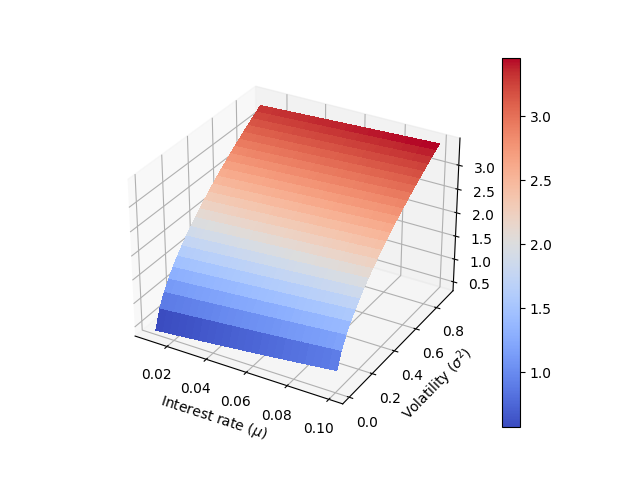
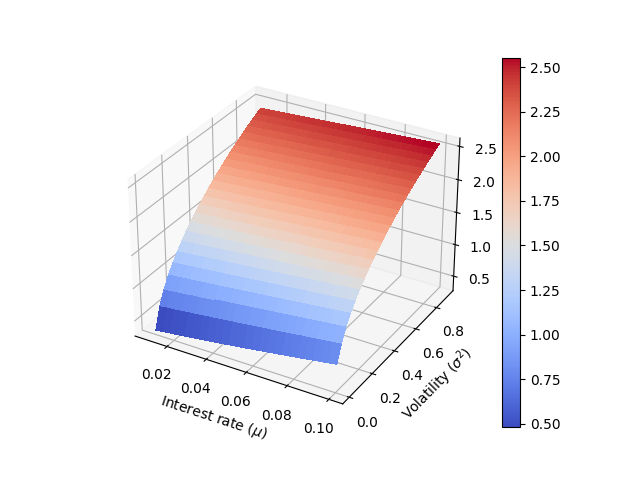
++

diff --git a/heston-improve.py b/heston-improve.py
@@ -5,42 +5,63 @@ from matplotlib import cm
 
 
 # Function to perform Monte Carlo simulation for option pricing
-def monte_carlo_simulation(s0, K, drift, vol, simulations):
-    random_vector = np.random.normal(0, 1, size=(simulations, 3))
-    s_paths = s0 * np.exp((drift - vol / 2) * 1 / 3 + (vol * 1 / 3) ** 0.5 * random_vector.cumsum(axis=1))
+def monte_carlo_simulation(s0, K, drift, vol, T, simulations):
+    random_matrix = np.random.normal(0, 1, size=(simulations, int(T * 3)))  # Utilisez un multiple de T pour le nombre de colonnes
+    s_paths = np.zeros((simulations, int(T) + 1))
+    s_paths[:, 0] = s0
+
+    for i in range(1, int(T) + 1):
+        s_paths[:, i] = s_paths[:, i - 1] * np.exp((drift - vol**2 / 2) * 1 / T + vol * np.sqrt(1 / T) * random_matrix[:, i - 1])
+
     P = np.mean(s_paths, axis=1)
     sample_payoff = np.maximum(P - K, 0)
-    return np.mean(sample_payoff) * np.exp(-drift)
+    return np.mean(sample_payoff) * np.exp(-drift * T)
+
 
 
 # Function to calculate option prices for specific mu and sigma2 values
-def option_price(mu, sigma2, s0, K, simulations):
+def option_price(mu, sigma2, s0, K, T, simulations):
     drift = mu
     vol = np.sqrt(sigma2)
-    return monte_carlo_simulation(s0, K, drift, vol, simulations)
+    return monte_carlo_simulation(s0, K, drift, vol, T, simulations)
 
 
 # Function to calculate Vega (sensitivity to volatility) for specific mu and sigma2 values
-def vega(mu, sigma2, s0, K, simulations, h=0.01):
+def vega(mu, sigma2, s0, K, T, simulations, h=0.01):
     vega_values = np.zeros((len(mu), len(sigma2)))
     for i in range(len(mu)):
         for j in range(len(sigma2)):
-            option_price_at_sigma2 = option_price(mu[i], sigma2[j], s0, K, simulations)
-            option_price_at_sigma2_plus_h = option_price(mu[i], sigma2[j] + np.sqrt(h), s0, K, simulations)
+            option_price_at_sigma2 = option_price(mu[i], sigma2[j], s0, K, T, simulations)
+            option_price_at_sigma2_plus_h = option_price(mu[i], sigma2[j] + np.sqrt(h), s0, K, T, simulations)
             vega_values[i, j] = (option_price_at_sigma2_plus_h - option_price_at_sigma2) / h
     return vega_values
 
 
 # Function to calculate Delta (sensitivity to asset price) for specific mu and sigma2 values
-def delta(mu, sigma2, s0, K, simulations, h=0.01):
+def delta(mu, sigma2, s0, K, T, simulations, h=0.01):
     delta_values = np.zeros((len(mu), len(sigma2)))
     for i in range(len(mu)):
         for j in range(len(sigma2)):
-            option_price_at_s0 = option_price(mu[i], sigma2[j], s0, K, simulations)
-            option_price_at_s0_plus_h = option_price(mu[i], sigma2[j], s0 + h, K, simulations)
+            option_price_at_s0 = option_price(mu[i], sigma2[j], s0, K, T, simulations)
+            option_price_at_s0_plus_h = option_price(mu[i], sigma2[j], s0 + h, K, T, simulations)
             delta_values[i, j] = (option_price_at_s0_plus_h - option_price_at_s0) / h
     return delta_values
 
+
+# Function to calculate Vega (sensitivity to volatility) for specific mu and sigma2 values
+def vega2(mu, sigma2, s0, K, T, simulations, h=0.01):
+    option_price_at_sigma2 = option_price(mu, sigma2, s0, K, T, simulations)
+    option_price_at_sigma2_plus_h = option_price(mu, sigma2 + np.sqrt(h), s0, K, T, simulations)
+    vega_values = (option_price_at_sigma2_plus_h - option_price_at_sigma2) / h
+    return vega_values
+
+
+# Function to calculate Delta (sensitivity to asset price) for specific mu and sigma2 values
+def delta2(mu, sigma2, s0, K, T, simulations, h=0.01):
+    option_price_at_s0 = option_price(mu, sigma2, s0, K, T, simulations)
+    option_price_at_s0_plus_h = option_price(mu, sigma2, s0 + h, K, T, simulations)
+    delta_values = (option_price_at_s0_plus_h - option_price_at_s0) / h
+    return delta_values
 
 
 # Define ranges for drift (mu) and volatility squared (sigma2)
@@ -51,12 +72,13 @@ sigma2_v = np.linspace(0.01, 0.9, 100)  # Increase the number of points for smoo
 simulations = 5000  # Increase the number of simulations for smoother results
 s0 = 10
 K = 10
+T = 1
 
 # Calculate option prices for each combination of mu and sigma2
 result = np.zeros((len(mu_v), len(sigma2_v)))
 for i, mu in enumerate(mu_v):
     for j, sigma2 in enumerate(sigma2_v):
-        result[i, j] = option_price(mu, sigma2, s0, K, simulations)
+        result[i, j] = option_price(mu, sigma2, s0, K, T, simulations)
 
 # Prepare data for 3D plotting
 MU, SIGMA2 = np.meshgrid(mu_v, sigma2_v)
@@ -71,27 +93,63 @@ ax.set_zlabel('Price of option')
 plt.title("Option Prices (Heston Model)")
 plt.show()
 
-# Calculate and plot Vega as a function of mu and sigma2
-vega_values = vega(mu_v, sigma2_v, s0, K, simulations)
+# Define ranges for asset price (S) and time to maturity (T)
+s = np.linspace(1, 200, 200)
+t = np.linspace(0, 10, 100)
+K = 100
+simulations = 5000  # Set the number of Monte Carlo simulations
+
+vega = np.zeros((len(t), len(s)))
+delta = np.zeros((len(t), len(s)))
+
+for i in range(len(t)):
+    for j in range(len(s)):
+        vega[i, j] = vega2(0.05, 0.2, s[j], K, t[i], simulations)
+        delta[i, j] = delta2(0.05, 0.2, s[j], K, t[i], simulations)
+
+S, T = np.meshgrid(s, t)
 fig = plt.figure(figsize=(12, 8))
-ax = fig.add_subplot(122, projection='3d')
-ax.plot_surface(MU, SIGMA2, vega_values, cmap=cm.coolwarm, antialiased=False)
-ax.set_xlabel('Interest rate ($\mu$)')
-ax.set_ylabel('Volatility ($\sigma^2$)')
+
+# Plot Vega
+ax = fig.add_subplot(121, projection='3d')
+ax.plot_surface(T, S, vega, cmap=cm.coolwarm, antialiased=False)
+ax.set_xlabel('Time to Maturity ($T$)')
+ax.set_ylabel('Asset Price ($S$)')
 ax.set_zlabel('Vega')
 plt.title("Vega (Sensitivity to Volatility)")
 
-plt.savefig('Graph/heston_vega.png')
-plt.show()
-
-# Calculate and plot Delta as a function of mu and sigma2
-delta_values = delta(mu_v, sigma2_v, s0, K, simulations)
-fig = plt.figure(figsize=(12, 8))
-ax = fig.add_subplot(111, projection='3d')
-ax.plot_surface(MU, SIGMA2, delta_values, cmap=cm.coolwarm, antialiased=False)
-ax.set_xlabel('Interest rate ($\mu$)')
-ax.set_ylabel('Volatility ($\sigma^2$)')
+# Plot Delta
+ax = fig.add_subplot(122, projection='3d')
+ax.plot_surface(T, S, delta, cmap=cm.coolwarm, antialiased=False)
+ax.set_xlabel('Time to Maturity ($T$)')
+ax.set_ylabel('Asset Price ($S$)')
 ax.set_zlabel('Delta')
 plt.title("Delta (Sensitivity to Asset Price)")
-plt.savefig('Graph/heston_delta.png')
+
+plt.savefig('Graph/heston_sensitivity.png')
 plt.show()
+
+# # Calculate and plot Vega as a function of mu and sigma2
+# vega_values = vega(mu_v, sigma2_v, s0, K, simulations)
+# fig = plt.figure(figsize=(12, 8))
+# ax = fig.add_subplot(122, projection='3d')
+# ax.plot_surface(MU, SIGMA2, vega_values, cmap=cm.coolwarm, antialiased=False)
+# ax.set_xlabel('Interest rate ($\mu$)')
+# ax.set_ylabel('Volatility ($\sigma^2$)')
+# ax.set_zlabel('Vega')
+# plt.title("Vega (Sensitivity to Volatility)")
+#
+# plt.savefig('Graph/heston_vega.png')
+# plt.show()
+#
+# # Calculate and plot Delta as a function of mu and sigma2
+# delta_values = delta(mu_v, sigma2_v, s0, K, simulations)
+# fig = plt.figure(figsize=(12, 8))
+# ax = fig.add_subplot(111, projection='3d')
+# ax.plot_surface(MU, SIGMA2, delta_values, cmap=cm.coolwarm, antialiased=False)
+# ax.set_xlabel('Interest rate ($\mu$)')
+# ax.set_ylabel('Volatility ($\sigma^2$)')
+# ax.set_zlabel('Delta')
+# plt.title("Delta (Sensitivity to Asset Price)")
+# plt.savefig('Graph/heston_delta.png')
+# plt.show()
